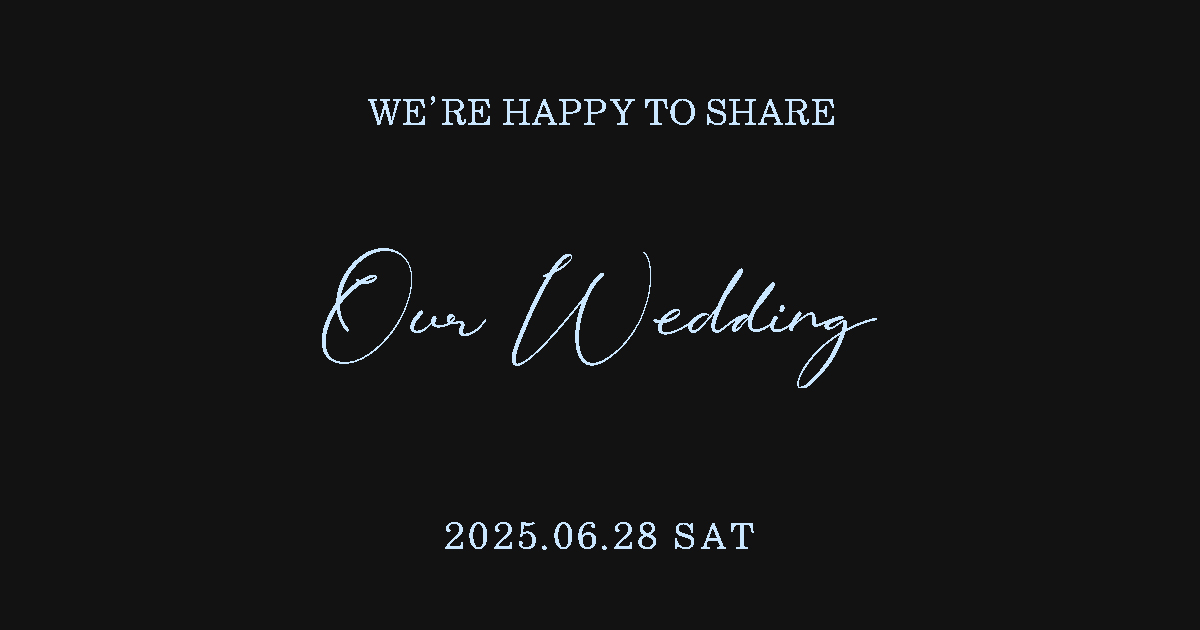
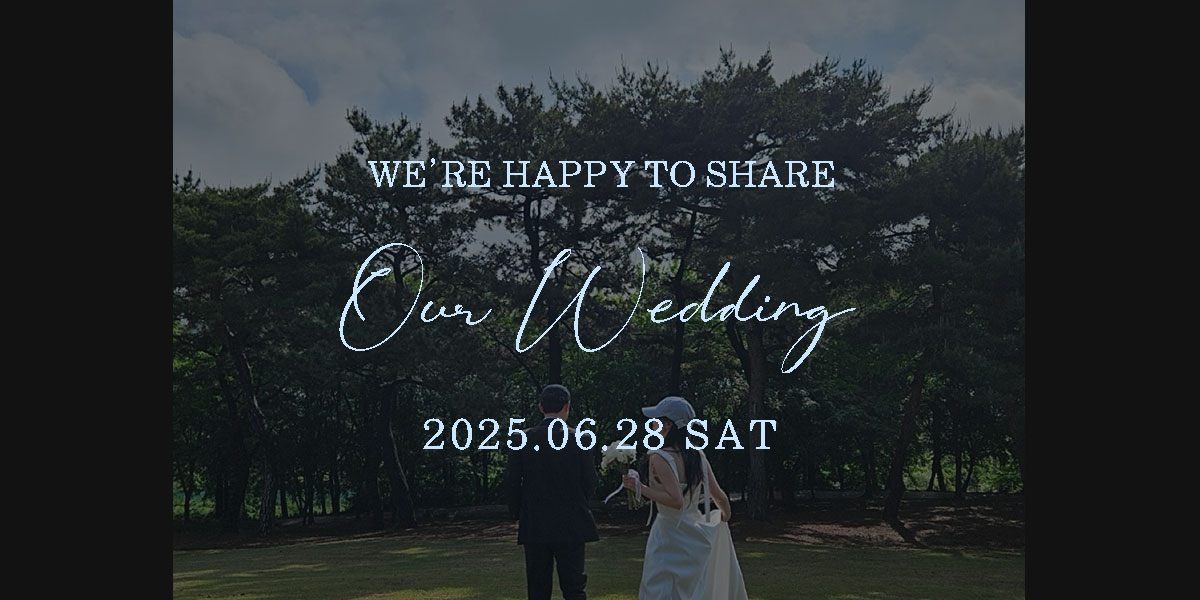
Add files via upload

diff --git a/sunghunheeae/js/js.js b/sunghunheeae/js/js.js
@@ -36,7 +36,7 @@ function shareKakao() {
     content: {
       title: '성훈 & 희애, 결혼 소식을 전합니다 💍',
       description: '2025.06.28 SAT',
-      imageUrl: 'https://hheeaaee.github.io/sunghunheeae/image/kakaothumb.png', // 공유 이미지
+      imageUrl: 'https://hheeaaee.github.io/sunghunheeae/image/kakaothumb.jpg', // 공유 이미지
       link: {
         mobileWebUrl: window.location.href,
         webUrl: window.location.href
